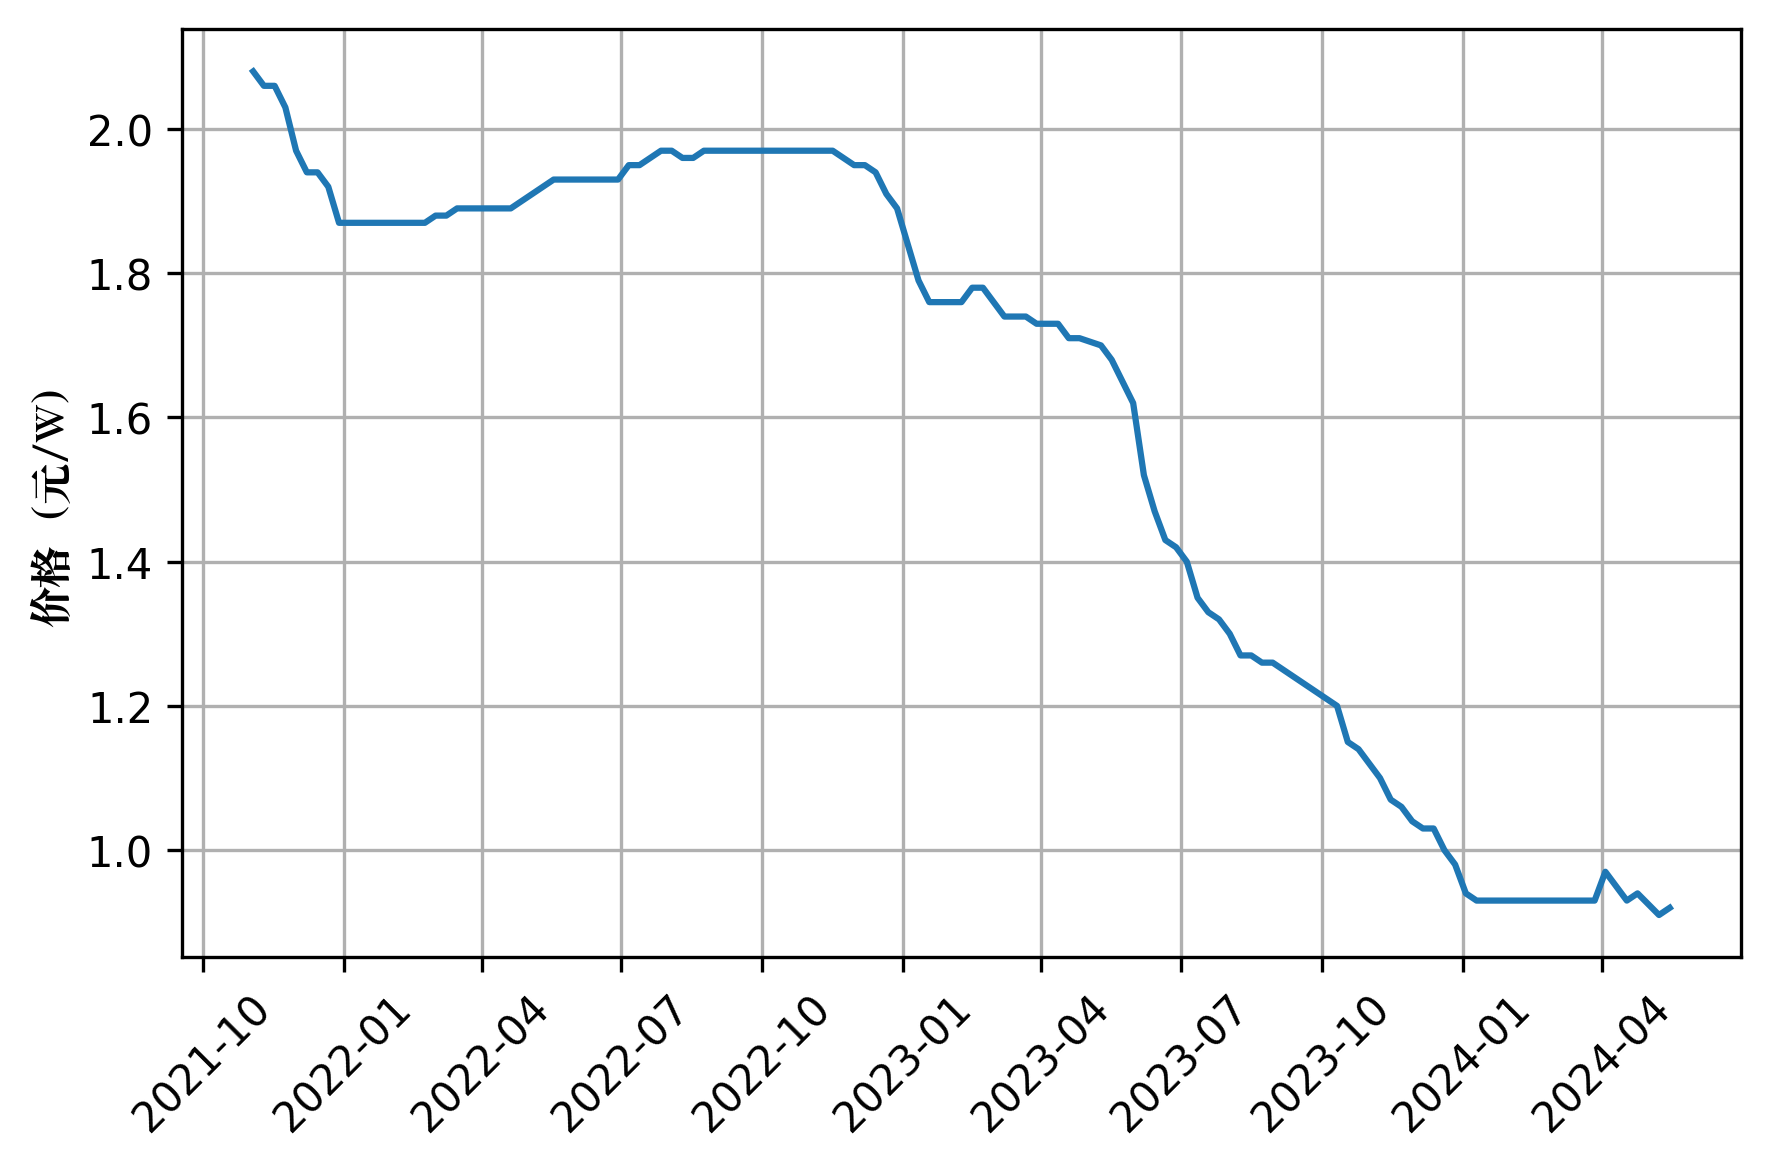
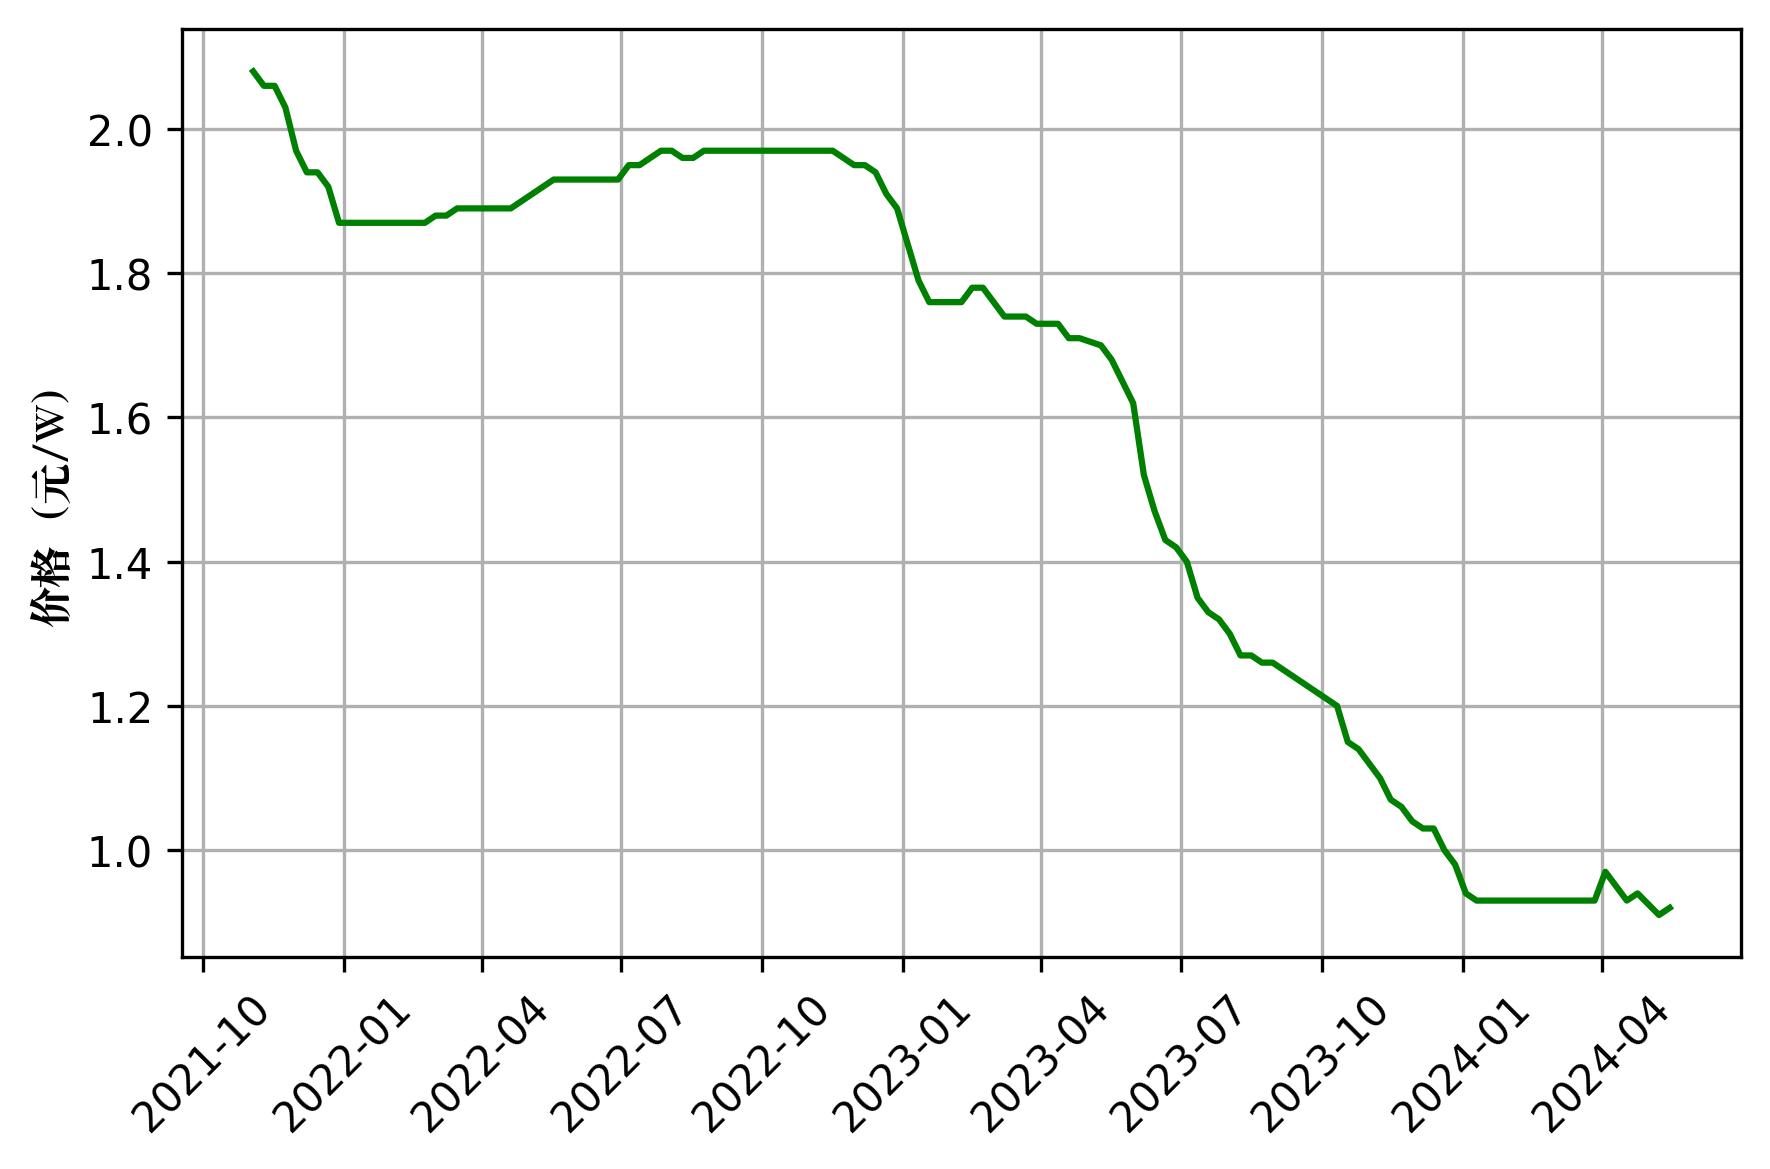
Initiate

diff --git a/Replication Package of IO Project/Code/Plot.py b/Replication Package of IO Project/Code/Plot.py
@@ -101,7 +101,7 @@ data2 = data2.sort_values('日期')
 
 # Plot the data
 plt.figure(figsize=(6, 4))
-plt.plot(data2['日期'], data2['价格（元/W）'])
+plt.plot(data2['日期'], data2['价格（元/W）'], color = "green")
 
 # Add labels and title
 # plt.xlabel('日期', fontproperties=chinese_font)
